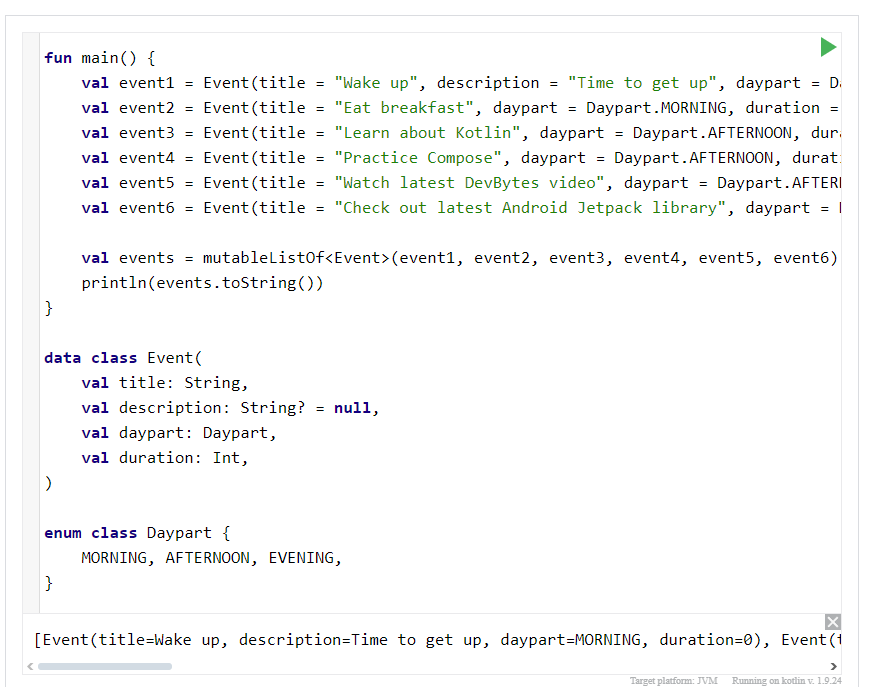
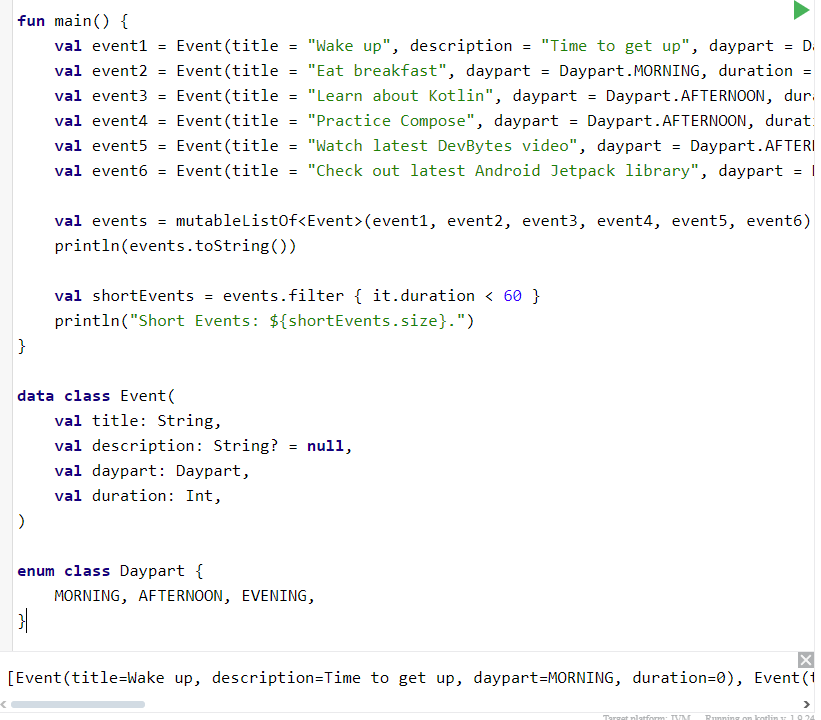
Atividade04

diff --git a/script.kt b/script.kt
@@ -8,6 +8,9 @@ fun main() {
 
     val events = mutableListOf<Event>(event1, event2, event3, event4, event5, event6)
     println(events.toString())
+
+    val shortEvents = events.filter { it.duration < 60 }
+    println("Short Events: ${shortEvents.size}.")
 }
 
 data class Event(
@@ -21,5 +24,6 @@ enum class Daypart {
     MORNING, AFTERNOON, EVENING,
 }
 
-/* Console:
-[Event(title=Wake up, description=Time to get up, daypart=MORNING, duration=0), Event(title=Eat breakfast, description=null, daypart=MORNING, duration=15), Event(title=Learn about Kotlin, description=null, daypart=AFTERNOON, duration=30), Event(title=Practice Compose, description=null, daypart=AFTERNOON, duration=60), Event(title=Watch latest DevBytes video, description=null, daypart=AFTERNOON, duration=10), Event(title=Check out latest Android Jetpack library, description=null, daypart=EVENING, duration=45)]*/
+/*Console:
+[Event(title=Wake up, description=Time to get up, daypart=MORNING, duration=0), Event(title=Eat breakfast, description=null, daypart=MORNING, duration=15), Event(title=Learn about Kotlin, description=null, daypart=AFTERNOON, duration=30), Event(title=Practice Compose, description=null, daypart=AFTERNOON, duration=60), Event(title=Watch latest DevBytes video, description=null, daypart=AFTERNOON, duration=10), Event(title=Check out latest Android Jetpack library, description=null, daypart=EVENING, duration=45)]
+Short Events: 5.*/
